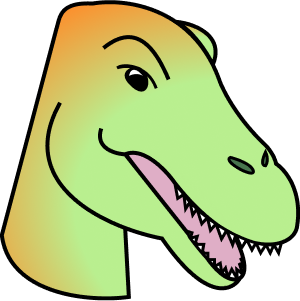
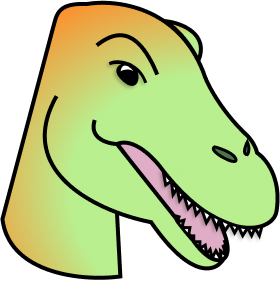
updated dino faces

diff --git a/src/scenes/SelectCharacterScene.ts b/src/scenes/SelectCharacterScene.ts
@@ -74,12 +74,11 @@ export class SelectCharacterScene extends AbstractScene {
   }
 
   createFaces(): void {
-    // TODO: place tyrannosaurus face here
     this.add
       .image(
         this.scene.scene.scale.width / 2 - 400 + 10,
         this.scene.scene.scale.height / 2 - 250 + 10,
-        AssetKeys.DINO_FACE_SPINOSAURUS
+        AssetKeys.DINO_FACE_TYRANNOSAURUS
       )
       .setOrigin(0, 0)
       .setDepth(1);

diff --git a/src/scenes/PreloadScene.ts b/src/scenes/PreloadScene.ts
@@ -30,6 +30,7 @@ export class PreloadScene extends AbstractScene {
     this.load.image(AssetKeys.CACTUS_2, "./cactus2.png");
     this.load.image(AssetKeys.CACTUS_3, "./cactus3.png");
     this.load.image(AssetKeys.DINO_FACE_SPINOSAURUS, "./dino_a_face.png");
+    this.load.image(AssetKeys.DINO_FACE_TYRANNOSAURUS, "./dino_b_face.png");
 
     this.load.audio(AssetKeys.DIED, "./you_died.mp3");
   }

diff --git a/src/constants/assetKeys.ts b/src/constants/assetKeys.ts
@@ -3,6 +3,7 @@ export enum AssetKeys {
   DINO_ATLAS_SPINOSAURUS = "DINO_ATLAS_SPINOSAURUS",
   DINO_ATLAS_TYRANNOSAURUS = "DINO_ATLAS_TYRANNOSAURUS",
   DINO_FACE_SPINOSAURUS = "DINO_FACE_SPINOSAURUS",
+  DINO_FACE_TYRANNOSAURUS = "DINO_FACE_TYRANNOSAURUS",
   CLOUD_1 = "CLOUD_1",
   CLOUD_2 = "CLOUD_2",
   CACTUS_1 = "CACTUS_1",
